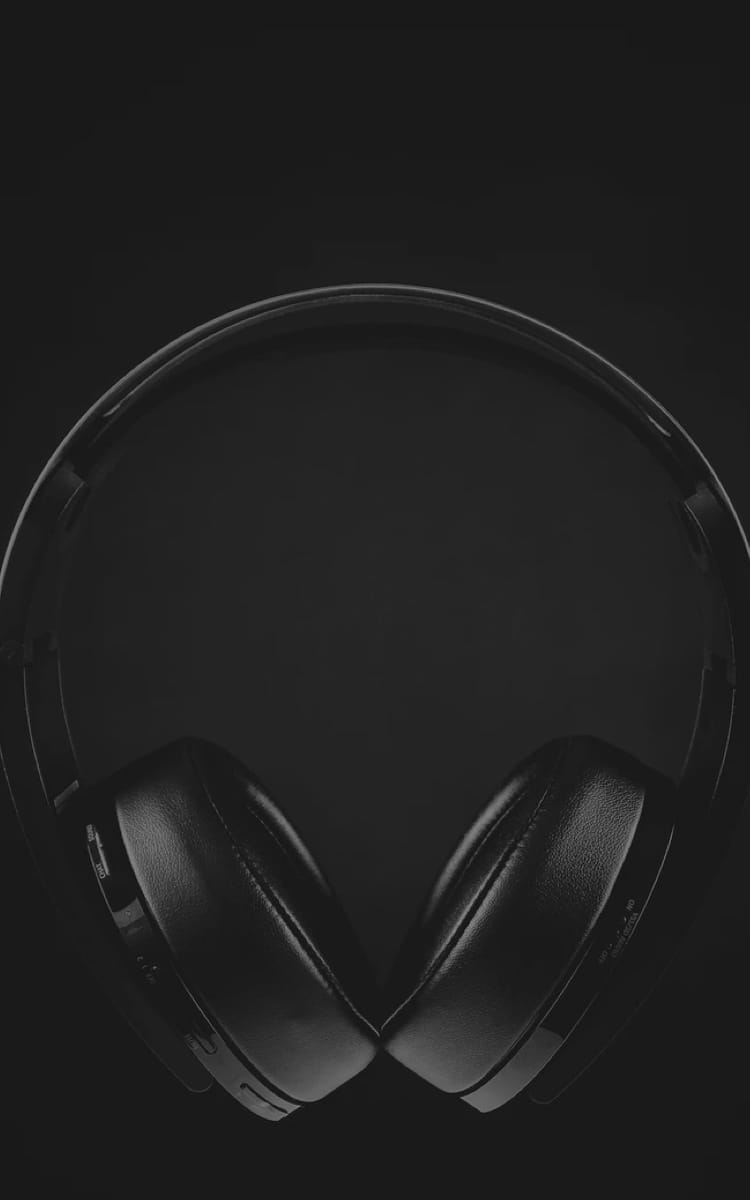
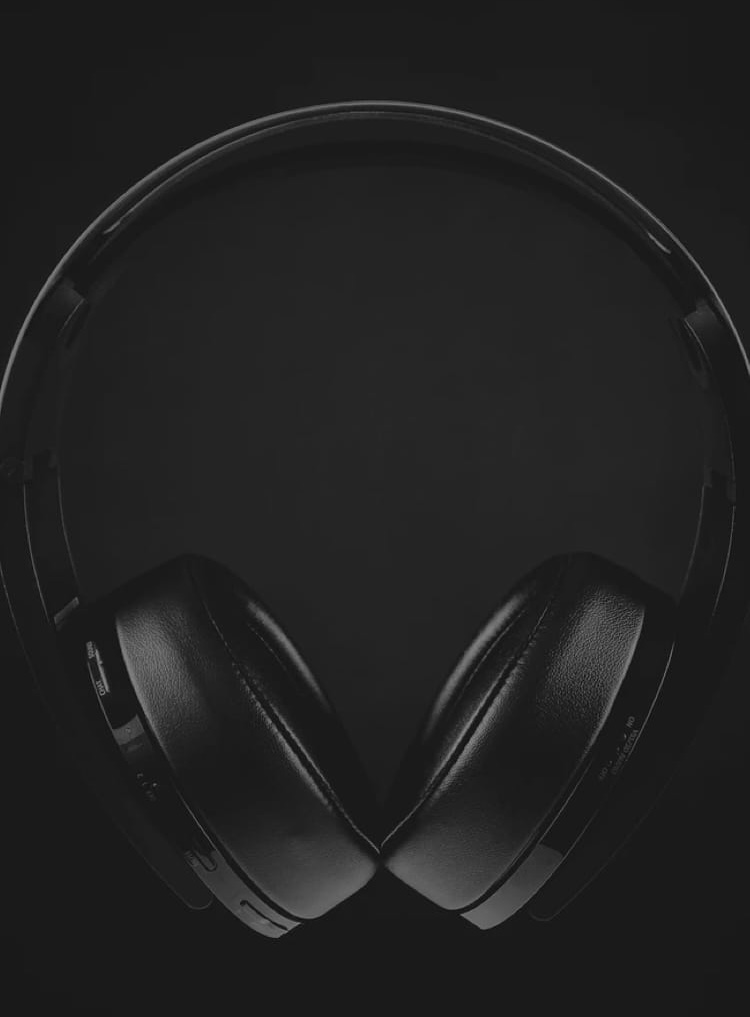
Fix UI
- Optimize images & ui
- Add animation to page load
- fix some hover effects

diff --git a/frontend/src/styles/_variables.scss b/frontend/src/styles/_variables.scss
@@ -1,6 +1,6 @@
 :root {
   --background-dark: #101010;
-  --background-dark-19: #191919;
+  --background-dark-100: #000000;
   --background-light: #fafafa;
   --foreground-light: #ffffff;
   --foreground-dark: #000000;
